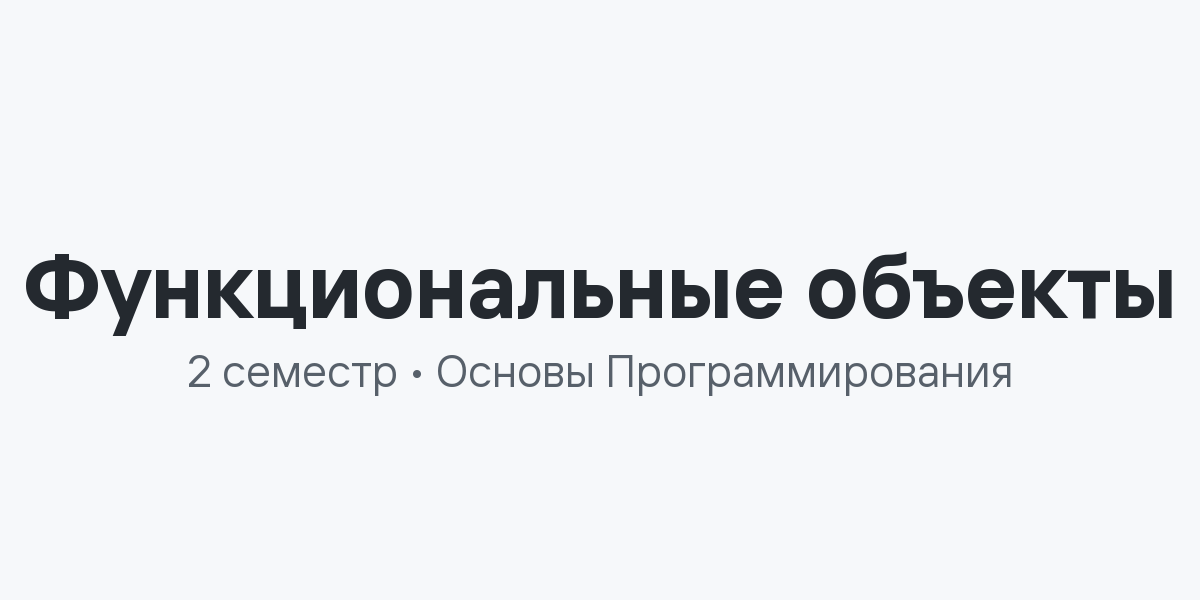
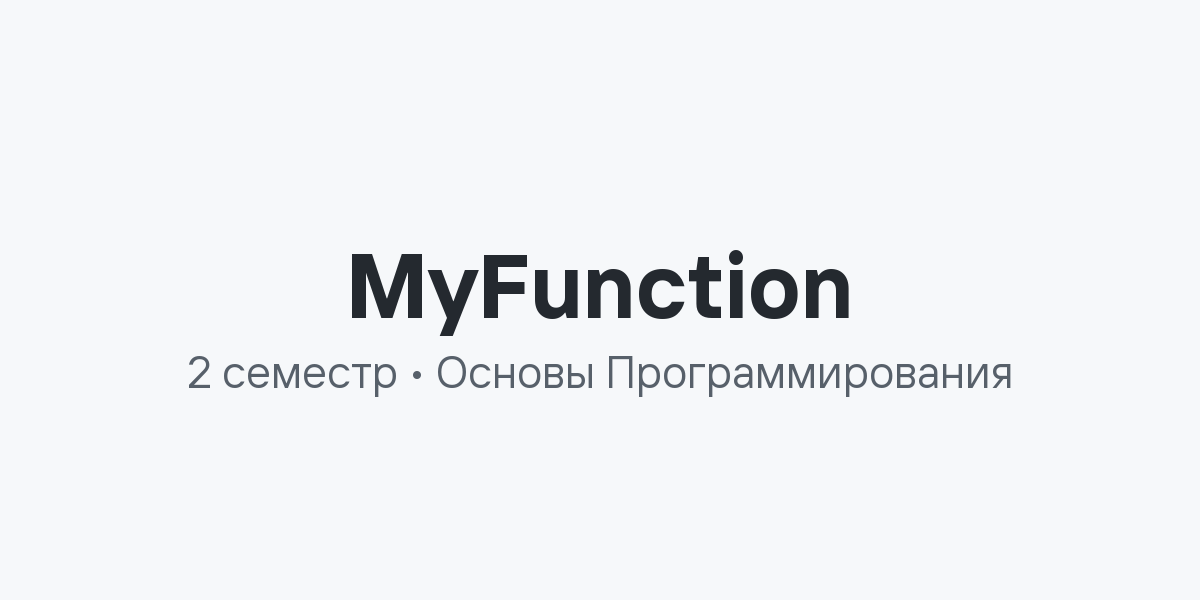
update

diff --git a/content/posts/functional-objects-02-19/index.md b/content/posts/functional-objects-02-19/index.md
@@ -1,5 +1,5 @@
 ---
-title: Функциональные объекты (and something more)
+title: Функциональные объекты
 date: 2025-02-19
 cover: images/cover.png
 tags:

diff --git a/content/posts/std-function-03-26/index.md b/content/posts/std-function-03-26/index.md
@@ -1,5 +1,5 @@
 ---
-title: std::function 
+title: MyFunction
 date: 2025-03-26
 cover: images/cover.png
 tags:

diff --git a/content/posts/template-2-04-23/index.md b/content/posts/template-2-04-23/index.md
@@ -1,5 +1,5 @@
 ---
-title: Template 2
+title: Templates (еще глубже!)
 date: 2025-04-23
 cover: images/cover.png
 tags: